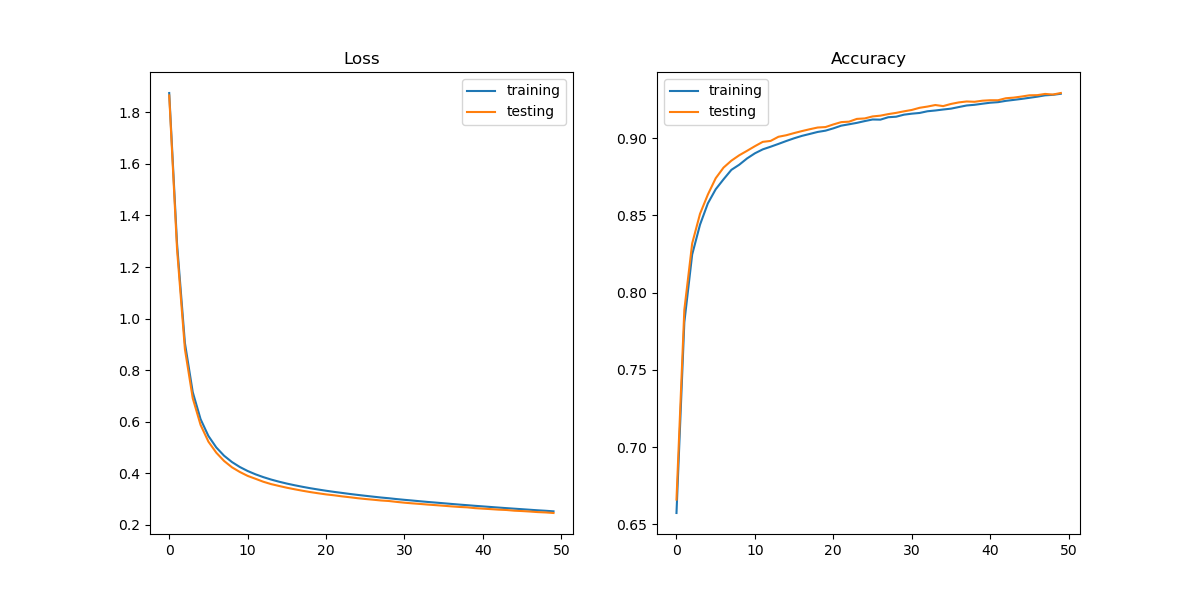
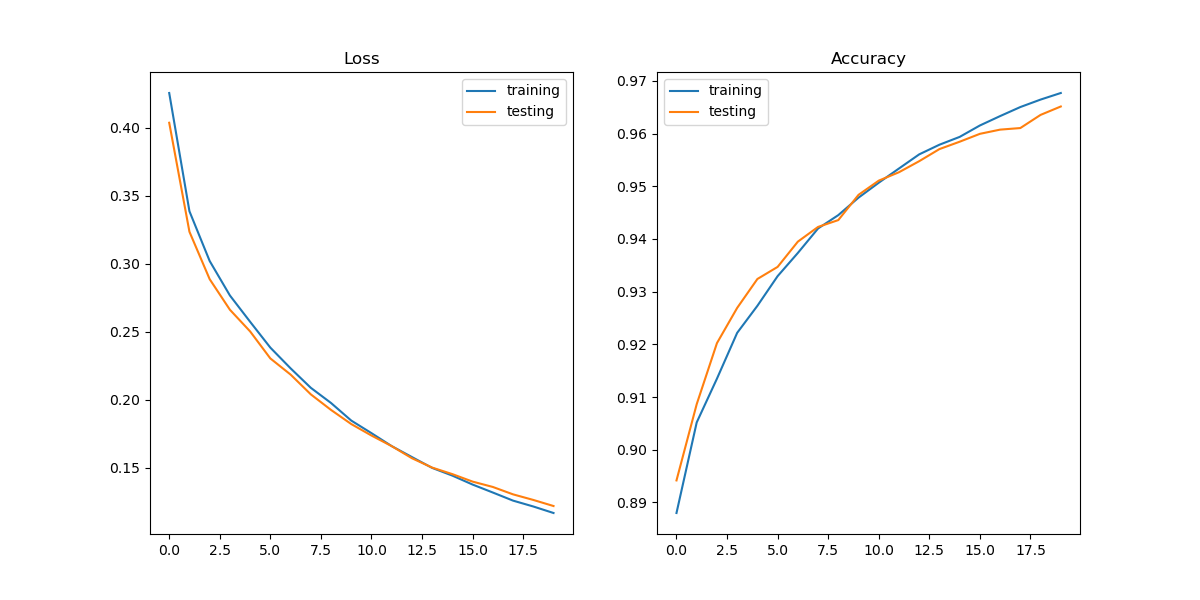
KZ-71: added max pooling

diff --git a/pytorch/mnist/__init__.py b/pytorch/mnist/__init__.py
@@ -24,7 +24,7 @@ def run_training_pipeline(model, model_name):
     train_dataloader, test_dataloader = get_dataloaders()
 
     loss_fn = nn.CrossEntropyLoss()
-    optimizer = torch.optim.SGD(model.parameters(), lr=1e-3)
+    optimizer = torch.optim.SGD(model.parameters(), lr=1e-2)
 
     epoch_list = []
     train_loss_list = []
@@ -32,7 +32,7 @@ def run_training_pipeline(model, model_name):
     test_loss_list = []
     test_acc_list = []
 
-    for epoch in tqdm(range(50)):
+    for epoch in tqdm(range(20)):
         model.train()
         for x, y in train_dataloader:
             y_hat = model(x)
@@ -67,12 +67,14 @@ def run():
         nn.Flatten(), nn.Linear(784, 128), nn.ReLU(), nn.Linear(128, 10)
     )
     model_convolution = nn.Sequential(
-        nn.Conv2d(1, 6, 3),
+        nn.Conv2d(in_channels=1, out_channels=6, kernel_size=3),
+        nn.MaxPool2d(kernel_size=2),
+        nn.ReLU(),
         nn.Flatten(),
-        nn.Linear(4056, 128),
+        nn.Linear(1014, 128),
         nn.ReLU(),
         nn.Linear(128, 10),
     )
 
     run_training_pipeline(model_linear, "linear")
-    run_training_pipeline(model_convolution, "convolution")
+    run_training_pipeline(model_convolution, "conv_linear")
